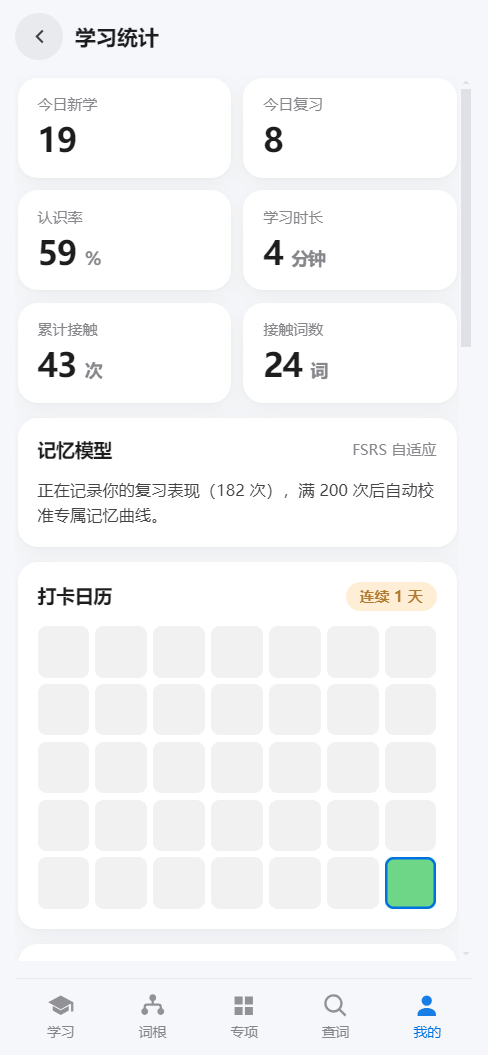
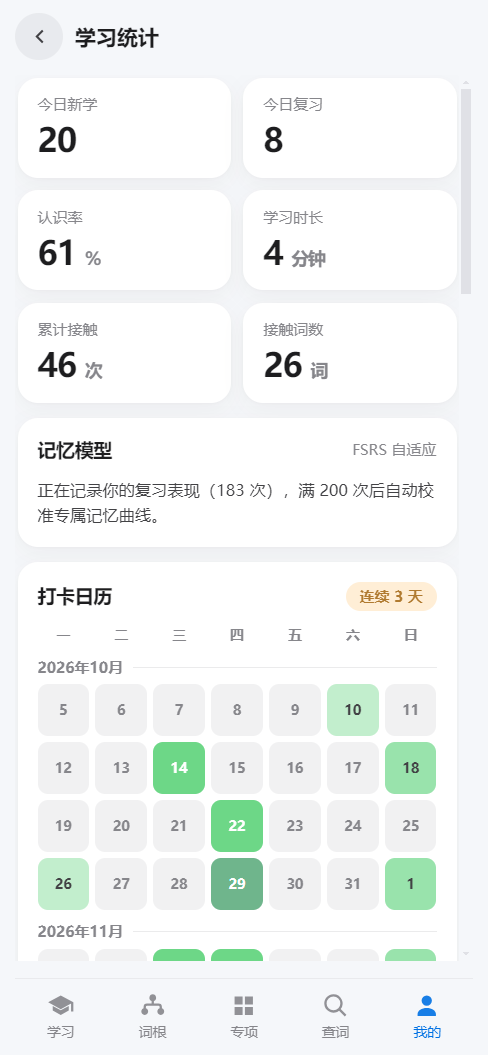
Document listening quiz, calendar dates, and root progress

diff --git a/README.md b/README.md
@@ -13,15 +13,15 @@
 
 **记得住**
 - FSRS-6 自适应记忆调度：按你的遗忘节奏安排复习，使用越多越贴合个人记忆曲线。
-- 词根分解 + 词缀导航 + 词根家族：把同根词放在一起记。
+- 词根分解 + 词缀导航 + 词根家族：把同根词放在一起记。词根 / 词缀行按已学比例显示绿色进度条与「已学 / 总数」，接近学完时整行变绿；可在设置中开关。
 - 结构化词性详解（及物/不及物等全称、分组义项）与离线助记钩子。
 - 四六级/考研/托福/GRE 等考试标签，以及可选的大模型深度讲解。
 
 **学得进**
 - 29 个专项主题（动物、家居、动作、经济、科技、自然、中国文化等），支持整主题专项学习。
-- 测试中心：六种范围（词书 / 专项 / 生词本 / 错题本 / 到期 / 混合）、三种题型（英选中 / 中选英 / 例句填空）与自动难度，抽题不重复、同根词不连续、同题型不连出三题；详见 [测试中心](#测试中心)。
+- 测试中心：六种范围（词书 / 专项 / 生词本 / 错题本 / 到期 / 混合）、四种题型（英选中 / 中选英 / 例句填空 / 听音选词）与自动难度，抽题不重复、同根词不连续、同题型不连出三题；详见 [测试中心](#测试中心)。
 - 学习页内容自由组合：音标、释义、构词解析、助记、英文释义、例句、词根家族、近义词、派生词、词形变化、词源逐项开关，并可拖动或按箭头调整上下顺序；会话进度以柔和进度条呈现。
-- 每日新词/复习计划、打卡日历、掌握分布、正确率与学习时长统计。
+- 每日新词/复习计划、带月份与逐日数字的打卡日历、掌握分布、正确率与学习时长统计。
 
 **顺手用**
 - 8 套主题不只是换色：每套都按对应设计语言重排字体、字重、行距、圆角、描边/阴影、留白密度、控件高度、底栏形态与动效，并各自适配浅色/深色模式。
@@ -80,6 +80,14 @@
 | --- |
 | <img src="docs/screenshots/quiz-session.png" width="280" alt="右上角独立「结束」按钮；答错后显示全部词义、上一题回顾与其他选项释义，底部仅保留继续" /> |
 
+| 听音选词 | 学习进度条开关 |
+| --- | --- |
+| <img src="docs/screenshots/quiz-audio.png" width="280" alt="自动播放发音，题干不显示拼写，四个选项都是音近或近拼写的单词" /> | <img src="docs/screenshots/settings-progress.png" width="280" alt="设置中可关闭词根与词缀列表的学习进度条" /> |
+
+| 词根进度 | 词缀进度 |
+| --- | --- |
+| <img src="docs/screenshots/roots.png" width="280" alt="词根行显示已学数量与绿色进度条，接近学完时整行变绿" /> | <img src="docs/screenshots/affixes.png" width="280" alt="词缀行同样按已学比例显示进度条与已学数量" /> |
+
 | 背景图片 |
 | --- |
 | <img src="docs/screenshots/background.png" width="280" alt="上传壁纸作为应用底色" /> |
@@ -96,7 +104,7 @@
 | --- | --- | --- |
 | 测试范围 | 当前词书 / 当前专项 / 生词本 / 错题本 / 到期复习 / 全部混合 | 「当前专项」可再指定 29 个主题之一；范围决定候选词池 |
 | 题目数量 | 5 / 10 / 20（默认 10） | 可用题量不足时会提示，可缩小范围或减少题数 |
-| 题型 | 英选中 / 中选英 / 例句填空（可多选，默认三种混合） | 某题型无可用题目时自动回退到其他题型 |
+| 题型 | 英选中 / 中选英 / 例句填空 / 听音选词（可多选，默认四种混合） | 某题型无可用题目时自动回退到其他题型 |
 | 难度 | 自动 / 简单 / 普通 / 困难 | 自动模式结合历史正确率与 FSRS 状态，把目标正确率保持在约 70–85% |
 | 联网补充例句 | 开 / 关（默认开） | 本地没有例句时联网获取并缓存；离线或失败自动回退 |
 
@@ -108,14 +116,16 @@
 - 基础权重：到期复习 > 错题 > 收藏与低掌握 > 当前词书/专项新词 > 已掌握（少量保留）；近期频繁接触的词会被降权。
 - 综合得分为「基础权重 × 难度匹配 × 词根覆盖加成 × 新鲜度加成 − 近期曝光惩罚 − 重复词/同根连出惩罚」，再按得分加权随机，避免总是抽到同几个词。
 - 干扰项优先同词性，并尽量匹配同词根、同主题、同考试标签和相近难度；合格选项不足 4 个时直接跳过该词。
+- 听音选词单独按「音近」组选项：规范化音标后计算音近度与首尾音相似度，只保留近音 / 近拼写的词，并排除同音词、包含词和直接派生词；近音候选不足时自动回退到其他题型。
 
-### 三种题型
+### 四种题型
 
 | 题型 | 题干 | 选项 |
 | --- | --- | --- |
 | 英选中 | 显示英文单词与音标 | 4 个中文释义，正确项为首要释义；排除近义、包含关系与反义项 |
 | 中选英 | 显示中文释义 | 4 个英文单词，先按同词性硬过滤，再按同词根、同主题、考试标签、拼写与长度相似度排序，从前 8–12 个候选中加权抽 3 个 |
 | 例句填空 | 挖空的双语例句 | 4 个同词性、同形态的单词；优先使用本地例句，缺少时按设置联网获取并缓存；上下文不足、答案不唯一或干扰项不够时更换题目，**不会伪造例句** |
+| 听音选词 | 进入题目自动播放英文发音，题干不显示拼写，可点「播放发音」重播 | 4 个英文单词；按规范化音标计算音近度，从前 10 个近音候选中加权抽 3 个，避免选项差别过大或听音即可排除 |
 
 ### 作答与结果
 

diff --git a/DEVELOPMENT.md b/DEVELOPMENT.md
@@ -631,6 +631,24 @@
 
 **验证**：390×844 @2x 逐页实测，四个页面顶部均无品牌栏、无遮挡与横向溢出；词根列表、专项卡片、查词详情、我的资料 / 统计 / 词书、设置弹层与词典服务商切换回归正常；`node --check app/js/app.js` 通过，无控制台错误。截图更新 `me.png / profile.png / stats.png / books.png / themes.png / dictionary.png`。
 
+**交付**：`android-30`（target `60b9e52`，APK 13,171,325 字节）。
+
+### 8.21 听音选词 + 日历日期 + 词根进度 + 头像去角标 ✅
+
+**需求**：测试新增「用英文发音选对应单词」，干扰项必须音近 / 近拼写，不能差别过大或一听即知；打卡日历显示月份并给每格标上日期数字；词根与词缀按已学比例显示绿色进度条、接近学完时整行变绿，并提供设置开关；头像去掉摄像头角标，仍可点击更换。
+
+**实现**
+
+- 听音选词：`quiz.js` 新增 `audio2word` 题型及 `canonIpa / phoneticKey / phoneticSim / buildAudioDistractors`。先规范化 IPA（去重音与长短符号、统一 `ә/ɡ/ɹ`、折叠元音为拉丁近音），音近度 = 编辑距离 0.72 + 首音 0.16 + 尾音 0.12；候选排除同音词、包含/被包含词、长共同前缀派生词与语义近邻后，按 `音近度 + 拼写相似度×0.34 + 同词性 0.08` 排序，仅保留音近度 ≥0.46（不足 4 个时降至 0.36）的前 10 个，用立方权重抽 3 个作干扰项；不足 3 个时跳过该题并回退其他题型。进入题目自动朗读且隐藏拼写，提供「播放发音」重播；作答后恢复单词、音标与发音。
+- 默认题型扩为四种；`store.js` 对保留旧默认三题型的用户做一次性迁移，自定义子集保持不变，预计题量同步统计四类。
+- 打卡日历：改为周一至周日对齐的周网格，跨月插入「2026年10月」式月份分隔，每格显示日期数字；保留 l1–l4 热度与今日/未来状态，深色格数字自动反白。
+- 词根 / 词缀进度：`renderRoots` 用 `Library.getFamily` 统计家族词，`renderAffixes` 从当前词书词条的 `morphemes` 反推关联词；以 SRS 非 new 状态计为已学，行内渲染 4px 绿色进度条，徽标换成「已学/总数」，比例 ≥85% 时整行淡绿（`row-learned`）。设置新增「词根与词缀 → 学习进度条」开关（默认开），关闭后不渲染进度条并恢复原始词数徽标。
+- 头像：移除「我的」资料卡与个人资料弹层头像上的摄像头角标（HTML + CSS），头像仍可点击上传 / 更换并完整显示。
+
+**验证（Electron + CDP，390×844 @1.25 与 360×800）**：听音题作答前不显示单词 / 音标，自动朗读每次进入题目触发一次，重播可重复播放，答后显示单词、音标与发音；干扰项抽样 `object → reject / project / inject`、`mesh → marsh / measure / mess`、`flank → flask / tank / flannel`，无包含词或直接派生词。日历显示「2026年10月」「2026年11月」月份标签、周一至周日表头与 42 个日期数字，热度与今日状态正常。词根 `tone 36/48`、`canny 17/48`、`liqu / theme 44/48`（整行变绿）；词缀 `-ion 7/76`、`-er 2/30`；开关关闭后进度条数量为 0、徽标恢复「48 词」，重开立即恢复。资料卡与弹层头像均无摄像头角标且仍可点击。`node --check` 三个脚本通过，无控制台错误。截图新增 `roots.png / affixes.png / quiz-audio.png / settings-progress.png`，更新 `stats.png / profile.png`。
+
+**交付**：`android-31`（target `c65087d`，CI run 43436045398 成功，Range 复核 `com.glance.app` / `versionCode 31` / `versionName 1.0.6+31`，证书 SHA-256 `82:F7:…:C9:AF`，APK 13,174,684 字节）。
+
 ---
 
 ## 9. 关键约束与注意事项
@@ -649,6 +667,7 @@
 
 | 提交 | 内容 |
 |---|---|
+| `c65087d` | 听音选词（音标音近干扰项）+ 打卡日历月份/日期 + 词根词缀学习进度条与开关 + 头像去掉摄像头角标 |
 | `f3fde1d` | 移除词根/专项/查词/我的顶部品牌栏（眼睛图标 + Glance + 词库），首屏直接进入内容 |
 | `a99523d` | 词典服务商改成二级底部弹层卡片选择（推荐/Key 徽章 + 能力说明）；测试「结束」收进顶部胶囊，操作条仅答错时显示 |
 | `7df96ee` | 自定义词书导入修复：底部常驻入口 + 空状态、Android 文件输入挂载 DOM、CSV/BOM/表头/去重与重名处理 |
@@ -684,4 +703,4 @@
 | `a21ee5e` | Capacitor gradle 注册 Android TTS 插件 |
 | `8ebdb66` | 索引化词素数据集 + SRS 学习系统（P0/P1） |
 
-**交付物**：`android-27` APK（头像与昵称编辑，versionCode 27 / versionName `1.0.6+27`）— `https://github.com/mjkyleo/Glance/releases/download/android-27/Glance-android.apk`（13,168,277 字节）；历史版本 `android-2`–`android-6`、`android-10`–`android-26` 保留在 Releases，`android-7/8/9` 的 release 已按用户要求删除（git tag 保留）。
+**交付物**：`android-31` APK（听音选词 / 日历日期 / 词根词缀进度 / 头像去角标，versionCode 31 / versionName `1.0.6+31`）— `https://github.com/mjkyleo/Glance/releases/download/android-31/Glance-android.apk`（13,174,684 字节）；历史版本 `android-2`–`android-6`、`android-10`–`android-30` 保留在 Releases，`android-7/8/9` 的 release 已按用户要求删除（git tag 保留）。
